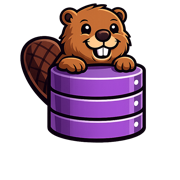
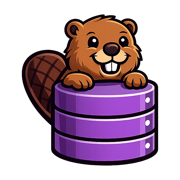
landing: divider between hero & product, animated rings, centered mark
- Adds a Divider between Hero and HeroProduct so they breathe; both
  were inside the same section with no visual separation.
- Re-cropped the source logo using ImageMagick: previous sips
  center-crop was geometric, but the subject sat at offset (473,145)
  in the 1536×1024 source — closer to the top than bottom. New crop
  pads the actual content (532×590) to a square canvas with even
  margins, so the beaver is genuinely centered in the rings.
  Regenerated every PNG (extension icons, brand pack, favicon, OG
  mark, apple-icon).
- Hero rings now breathe: three concentric borders each scale
  1 → 1.022 → 1 with staggered tempos (7s / 5.5s / 4.4s) so they
  feel organic instead of synced. The ambient purple glow gently
  pulses (6s) and two sonar-ping rings emerge from center every
  ~4.6s on offset phases.
- The mark itself drifts up/down 3px on a 6.5s loop.
- All animations respect prefers-reduced-motion.

diff --git a/landing-site/src/app/globals.css b/landing-site/src/app/globals.css
@@ -305,6 +305,42 @@
 }
 
 /* ──────────────────────────────────────────────────────────────
+   Hero mark — concentric rings breathe + glow pulse, sonar ping
+   ────────────────────────────────────────────────────────────── */
+@keyframes hero-ring-breathe {
+  0%, 100% { transform: scale(1); opacity: 1; }
+  50% { transform: scale(1.022); opacity: .6; }
+}
+@keyframes hero-glow-pulse {
+  0%, 100% { opacity: .85; transform: scale(1); }
+  50% { opacity: 1; transform: scale(1.06); }
+}
+@keyframes hero-ping {
+  0% { transform: scale(.55); opacity: 0; }
+  12% { opacity: .55; }
+  100% { transform: scale(1.55); opacity: 0; }
+}
+@keyframes hero-mark-float {
+  0%, 100% { transform: translateY(0); }
+  50% { transform: translateY(-3px); }
+}
+
+.hero-ring-1 { animation: hero-ring-breathe 7s var(--ease) infinite; }
+.hero-ring-2 { animation: hero-ring-breathe 5.5s var(--ease) infinite; animation-delay: -1.6s; }
+.hero-ring-3 { animation: hero-ring-breathe 4.4s var(--ease) infinite; animation-delay: -.8s; }
+.hero-glow   { animation: hero-glow-pulse 6s var(--ease) infinite; transform-origin: center; }
+.hero-ping   { animation: hero-ping 4.6s var(--ease) infinite; }
+.hero-ping-2 { animation: hero-ping 4.6s var(--ease) infinite; animation-delay: -2.3s; }
+.hero-mark   { animation: hero-mark-float 6.5s var(--ease) infinite; }
+
+@media (prefers-reduced-motion: reduce) {
+  .hero-ring-1, .hero-ring-2, .hero-ring-3,
+  .hero-glow, .hero-ping, .hero-ping-2, .hero-mark {
+    animation: none;
+  }
+}
+
+/* ──────────────────────────────────────────────────────────────
    Compare slider — light ↔ dark product screenshots
    ────────────────────────────────────────────────────────────── */
 .compare {

diff --git a/landing-site/src/components/hero.tsx b/landing-site/src/components/hero.tsx
@@ -7,23 +7,27 @@ function HeroMark() {
       aria-hidden="true"
     >
       <div
-        className="pointer-events-none absolute inset-[-40px] lg:inset-[-60px]"
+        className="hero-glow pointer-events-none absolute inset-[-40px] lg:inset-[-60px]"
         style={{
           background:
             "radial-gradient(closest-side, rgba(138,92,246,.34), rgba(244,114,182,.14) 50%, transparent 78%)",
           filter: "blur(28px)",
         }}
       />
-      <div className="absolute inset-0 rounded-full border border-[var(--color-hair-3)]" />
-      <div className="absolute inset-[14px] rounded-full border border-[var(--color-hair-2)] lg:inset-[20px]" />
-      <div className="absolute inset-[28px] rounded-full border border-[var(--color-hair)] lg:inset-[40px]" />
+      {/* Sonar ping rings (emerge from center, fade outward) */}
+      <div className="hero-ping pointer-events-none absolute inset-0 rounded-full border border-[rgba(167,139,250,.35)]" />
+      <div className="hero-ping-2 pointer-events-none absolute inset-0 rounded-full border border-[rgba(244,114,182,.22)]" />
+      {/* Static-ish concentric rings, each breathing at its own tempo */}
+      <div className="hero-ring-1 absolute inset-0 rounded-full border border-[var(--color-hair-3)]" />
+      <div className="hero-ring-2 absolute inset-[14px] rounded-full border border-[var(--color-hair-2)] lg:inset-[20px]" />
+      <div className="hero-ring-3 absolute inset-[28px] rounded-full border border-[var(--color-hair)] lg:inset-[40px]" />
       {/* eslint-disable-next-line @next/next/no-img-element */}
       <img
         src="/brand/logo-mark-256.png"
         alt="IdxBeaver"
         width={256}
         height={256}
-        className="relative h-[112px] w-[112px] select-none sm:h-[128px] sm:w-[128px] lg:h-[184px] lg:w-[184px]"
+        className="hero-mark relative h-[112px] w-[112px] select-none sm:h-[128px] sm:w-[128px] lg:h-[184px] lg:w-[184px]"
         style={{
           filter:
             "drop-shadow(0 14px 32px rgba(138,92,246,.45)) drop-shadow(0 4px 10px rgba(0,0,0,.55))",

diff --git a/landing-site/src/app/page.tsx b/landing-site/src/app/page.tsx
@@ -21,6 +21,9 @@ export default function Home() {
       <main>
         <section className="relative">
           <Hero />
+          <div className="mt-12 sm:mt-16 lg:mt-20">
+            <Divider />
+          </div>
           <HeroProduct />
         </section>
 
